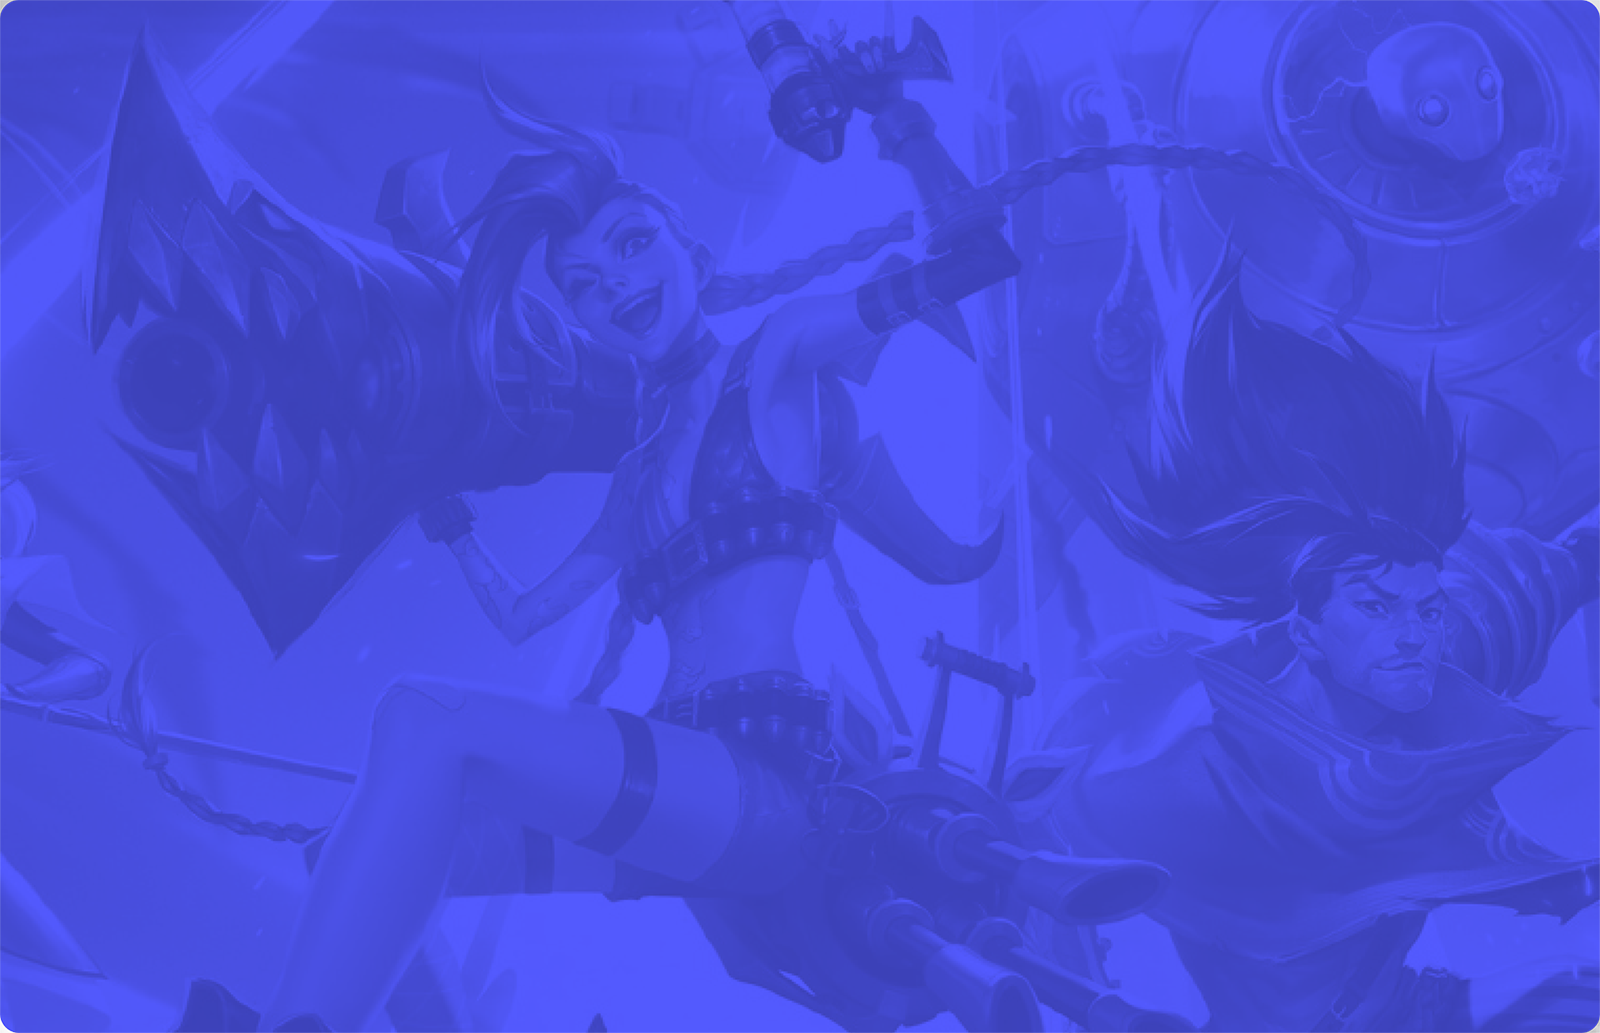
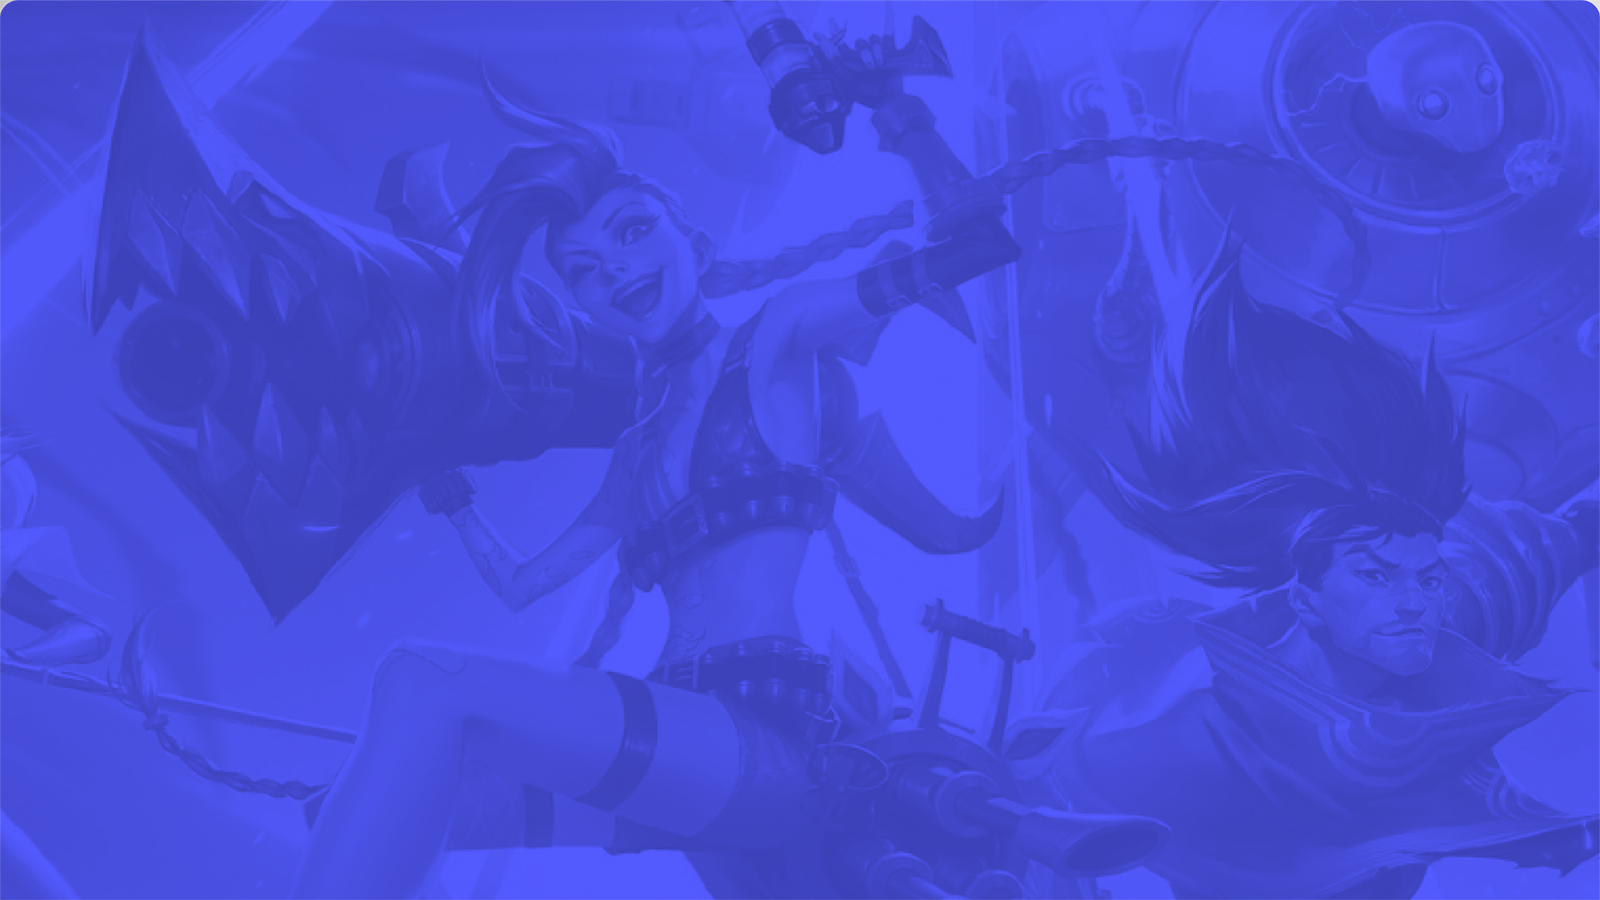
Added more background variation for home page

diff --git a/src/components/HomeGreet/index.js b/src/components/HomeGreet/index.js
@@ -9,7 +9,7 @@ function HomeGreet() {
     const [randomFg, setRandomFg] = useState(null);
 
     useEffect(() => {
-        let random = parseInt((Math.random() * 2) + 1);
+        let random = parseInt((Math.random() * 5) + 1);
         setRandomBg(`${process.env.REACT_APP_PUBLIC_URL}/images/home_greet/background${random}.png`);
         setRandomFg(`${process.env.REACT_APP_PUBLIC_URL}/images/home_greet/foreground${random}.png`);
     }, []);
